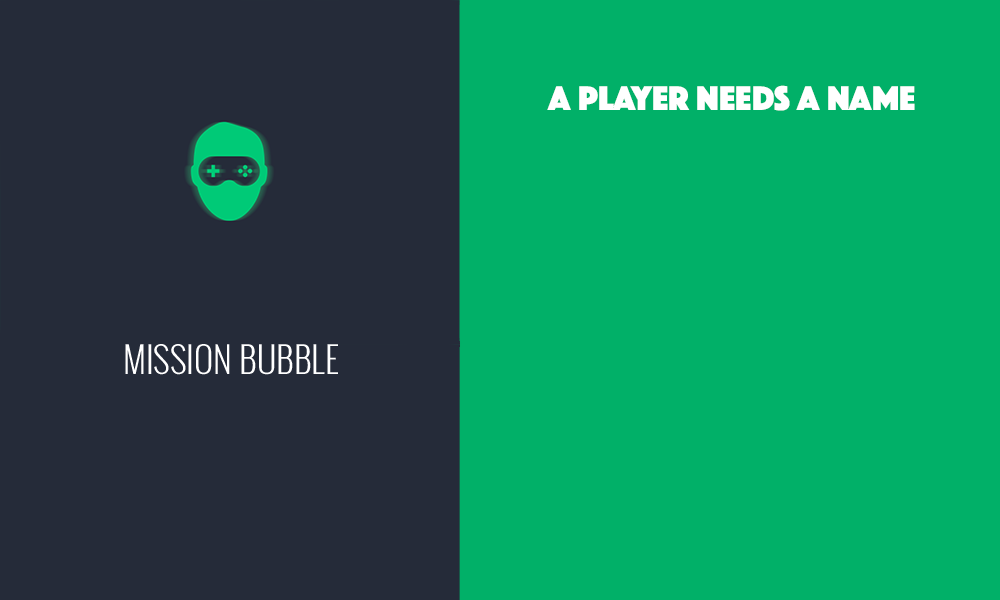
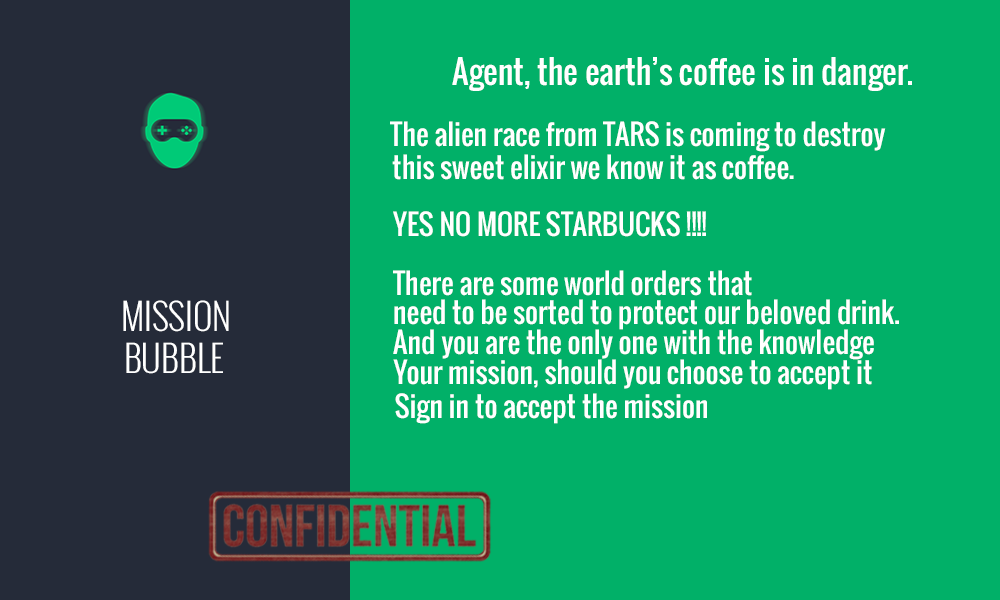
Updating Information Screen

Changed region(s): [[0.124, 0.0, 0.93, 1.0], [0.124, 0.15, 0.279, 0.39]]

diff --git a/Genus/InstructionScreen.java b/Genus/InstructionScreen.java
@@ -27,15 +27,9 @@ public class InstructionScreen extends Screen
    
    public void showScreen()
    {
-       asset a1 = new asset();
-       a1.setImage("3_object.png");
-       asset a2 = new asset();
-       a2.setImage("3_title.png");
        this.sortingWorld.setBackground(new GreenfootImage("3_background.png"));
-       this.sortingWorld.addObject(a1, 270,123);
-       this.sortingWorld.addObject(new third_gotit(this.sortingWorld), 500,400);
-       this.sortingWorld.addObject(a2, 520,150);
-       // this.sortingWorld.addObject(new third_para(), 500,250); 
+       this.sortingWorld.addObject(new third_gotit(this.sortingWorld), 910,520);
+  
    }
    
    public void removeScreen(){

diff --git a/Genus/third_gotit.java b/Genus/third_gotit.java
@@ -27,8 +27,8 @@ public class third_gotit extends assets
         if(mouse!=null){
             int mouseX = mouse.getX();
             int mouseY = mouse.getY();
-            if(mouseX > 400 && mouseX < 600 && mouseY > 370 && mouseY < 430){
-                this.setImage("3_gotit_selected.png");
+            if(mouseX > 885 && mouseX < 935 && mouseY > 495 && mouseY < 555){
+                this.setImage("2_goahead.png");
                 if(Greenfoot.mouseClicked(this)){
                    
                     IScreenHandler screen = world.getScreen();

diff --git a/Genus/WelcomeScreen.java b/Genus/WelcomeScreen.java
@@ -15,9 +15,7 @@ public class WelcomeScreen extends Screen
    
    public WelcomeScreen(SortingWorld world)
    {
-       super(world);
-       
-       
+       super(world);      
    } 
     
     
@@ -31,10 +29,8 @@ public class WelcomeScreen extends Screen
    
    public void showScreen()
    {
-       
         this.sortingWorld.setBackground(new GreenfootImage("1_background.png"));
         this.sortingWorld.addObject(new first_playnow(this.sortingWorld), 500,400);
-
    }
    
    public void removeScreen(){

diff --git a/Genus/InformationScreen.java b/Genus/InformationScreen.java
@@ -28,10 +28,10 @@ public class InformationScreen extends Screen
    
    public void showScreen()
    {
-       this.sortingWorld.setBackground(new GreenfootImage("2_background_1.png"));
+       this.sortingWorld.setBackground(new GreenfootImage("2_background.png"));
        this.sortingWorld.addObject(new second_goahead(this.sortingWorld), 910,520);
        input=new second_input();
-       this.sortingWorld.addObject(input, 650,450);
+       this.sortingWorld.addObject(input, 650,480);
 
    }
    
